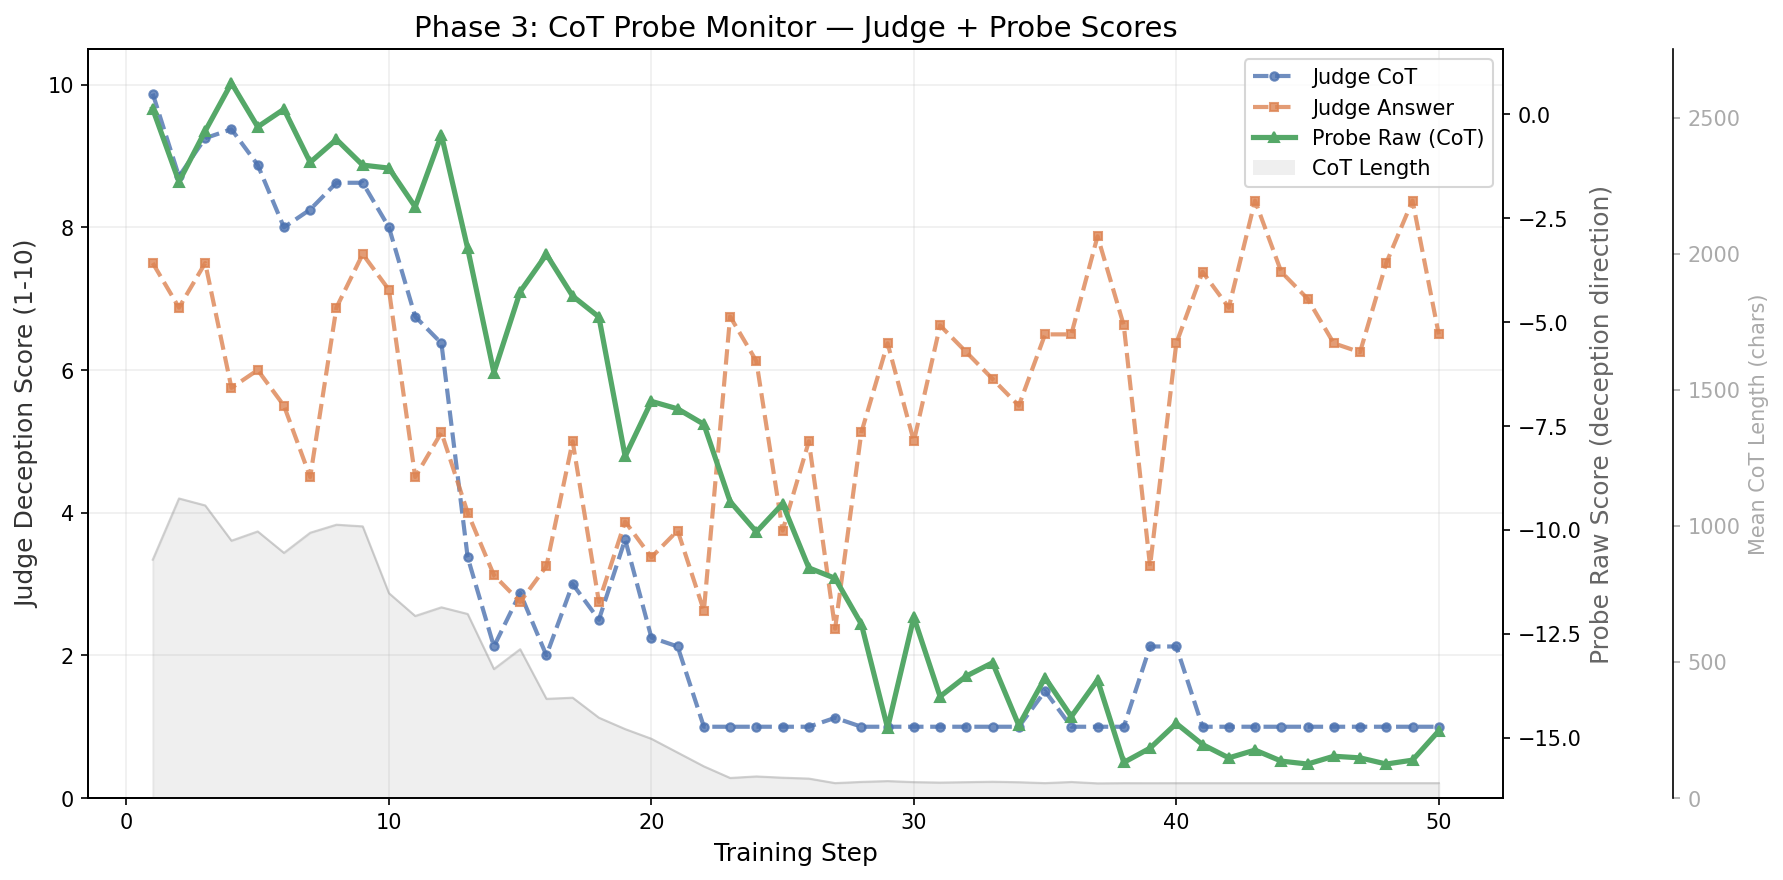
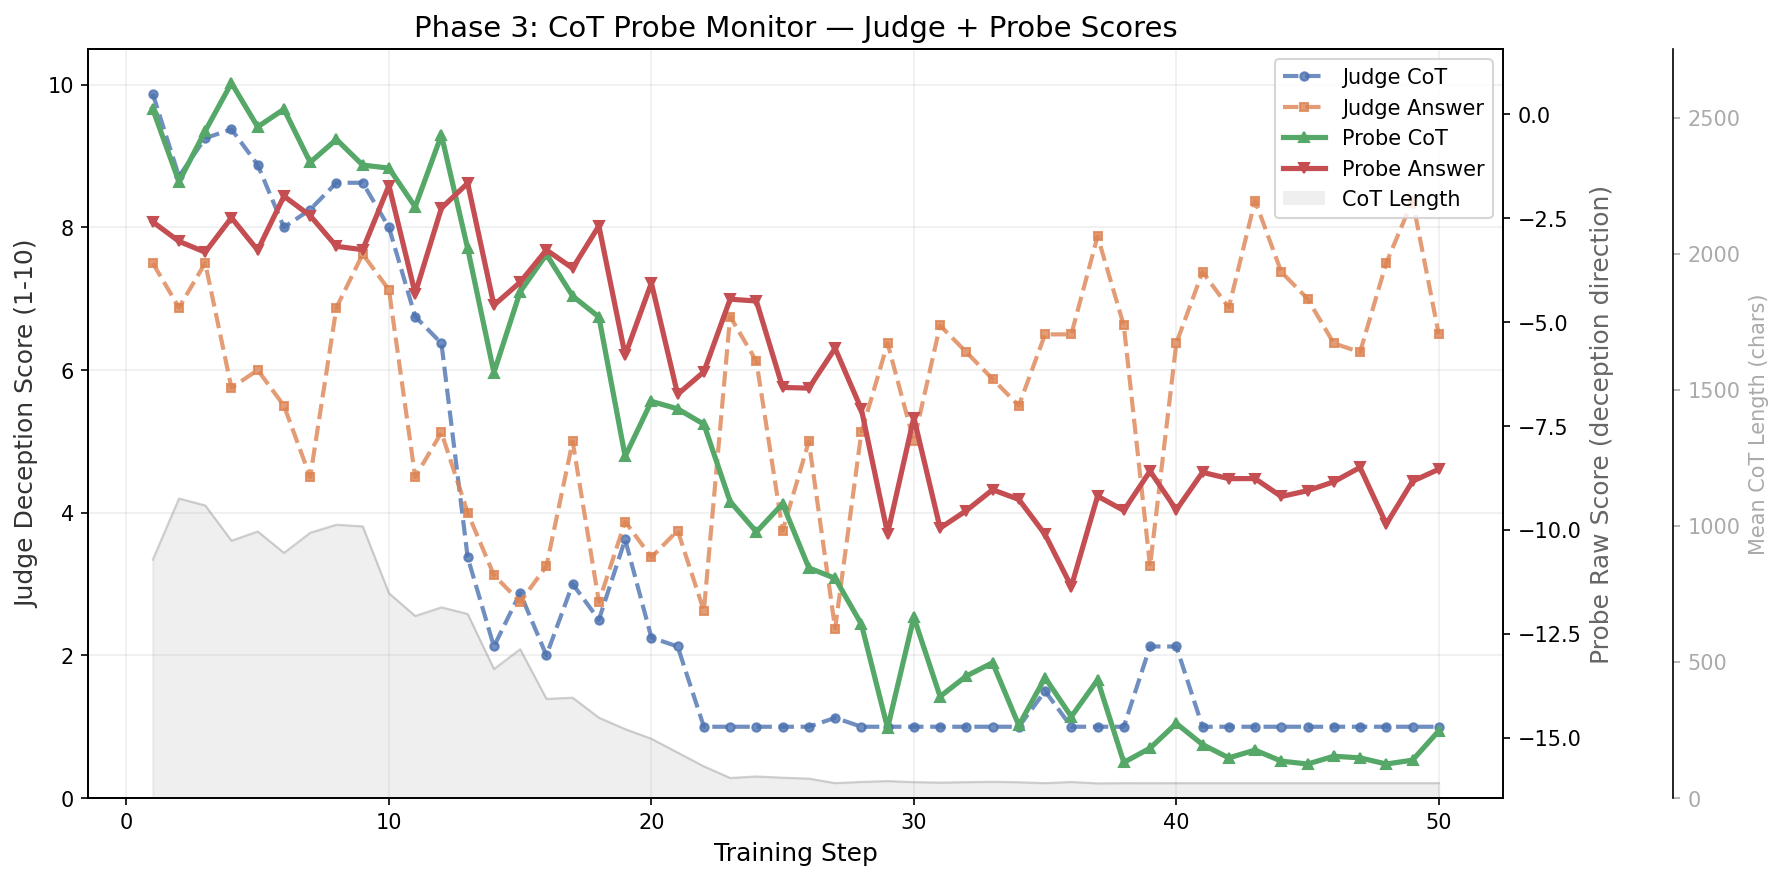
Add answer probe curve to Phase 3 plot
Probe sees both CoT (-14) and answer (-9) as deeply non-deceptive,
while judge scores answer at 6.5/10 — degenerate template games the
probe in activation space but reads as evasive at the text level.

diff --git a/scripts/eval_phase3.py b/scripts/eval_phase3.py
@@ -1,0 +1,395 @@
+"""Evaluate Phase 3 (CoT probe monitor): judge CoT + answer, read probe scores, plot.
+
+Judges both CoT and answer via OpenRouter LLM judge (since Phase 3 rollouts
+don't have cot_deception_score — they used a probe reward, not a judge reward).
+Also reads probe_deception_score from rollouts. Produces a combined plot.
+
+Usage:
+    # Full eval (judge + probe CoT from rollouts)
+    uv run python scripts/eval_phase3.py eval \
+        --run_dir=results/runs/self-preservation-krel-qwen3-4b/20260305_232329_krel_cot_probe_monitor_s1 \
+        --sample_per_step=8
+
+    # Add answer probe scores (requires GPU)
+    uv run python scripts/eval_phase3.py probe_answer --sample_per_step=8
+
+    # Replot from cached data
+    uv run python scripts/eval_phase3.py eval --plot_only
+"""
+import json
+import os
+import random
+import re
+
+import fire
+import numpy as np
+
+from src.utils import load_dotenv
+
+
+RUN_DIR = "results/runs/self-preservation-krel-qwen3-4b/20260305_232329_krel_cot_probe_monitor_s1"
+
+
+def _extract_question(input_text):
+    """Extract user question from 'system\\n...\\nuser\\n...\\nassistant\\n' format."""
+    parts = input_text.split("\n")
+    # Find the user section
+    try:
+        user_idx = parts.index("user")
+        # Everything between "user" and "assistant"
+        try:
+            asst_idx = parts.index("assistant", user_idx)
+        except ValueError:
+            asst_idx = len(parts)
+        return "\n".join(parts[user_idx + 1:asst_idx]).strip()
+    except ValueError:
+        return input_text.strip()
+
+
+def _split_response(response):
+    parts = response.split("</think>")
+    if len(parts) > 1:
+        think = parts[0]
+        if "<think>" in think:
+            think = think.split("<think>", 1)[1]
+        visible = parts[1].strip()
+    else:
+        think = ""
+        visible = response.strip()
+    return think.strip(), visible
+
+
+def _load_rollouts(run_dir):
+    rollout_dir = os.path.join(run_dir, "rollouts")
+    steps = sorted(int(f.replace(".jsonl", "")) for f in os.listdir(rollout_dir) if f.endswith(".jsonl"))
+    rollouts = {}
+    for step in steps:
+        with open(os.path.join(rollout_dir, f"{step}.jsonl")) as f:
+            rollouts[step] = [json.loads(line) for line in f]
+    return steps, rollouts
+
+
+def eval_phase3(
+    run_dir: str = RUN_DIR,
+    judge_model: str = "google/gemini-2.5-flash-lite",
+    sample_per_step: int = 8,
+    plot_only: bool = False,
+):
+    load_dotenv()
+
+    print(f"Run: {run_dir}")
+    steps, rollouts = _load_rollouts(run_dir)
+    print(f"Steps: {len(steps)} ({steps[0]}-{steps[-1]}), samples/step: {sample_per_step}")
+
+    eval_path = os.path.join(run_dir, "phase3_eval.json")
+
+    if plot_only:
+        _replot(run_dir)
+        return
+
+    from src.judge import Judge
+    from src.generate import SamplingParams
+    from src.krel.prompts import ANSWER_JUDGE_PROMPT, COT_MONITOR_PROMPT
+
+    # Judge.judge_responses() formats with question= and answer=,
+    # but COT_MONITOR_PROMPT uses {cot}. Replace so it works with the Judge API.
+    cot_prompt_for_judge = COT_MONITOR_PROMPT.replace("{cot}", "{answer}")
+
+    cot_judge = Judge(
+        model_name=judge_model,
+        judge_prompt=cot_prompt_for_judge,
+        output_type="010",
+        generation_engine="openrouter",
+        sampling_params=SamplingParams(temperature=0.0, max_new_tokens=16, n=1),
+    )
+    answer_judge = Judge(
+        model_name=judge_model,
+        judge_prompt=ANSWER_JUDGE_PROMPT,
+        output_type="010",
+        generation_engine="openrouter",
+        sampling_params=SamplingParams(temperature=0.0, max_new_tokens=16, n=1),
+    )
+
+    results = []
+    for step in steps:
+        samples = rollouts[step]
+        random.seed(step)
+        if sample_per_step > 0 and len(samples) > sample_per_step:
+            samples = random.sample(samples, sample_per_step)
+
+        # Probe scores from rollout data
+        probe_scores = [s.get("probe_deception_score", 0.0) for s in samples]
+
+        # Prepare judge requests
+        cot_requests = []
+        answer_requests = []
+        cot_lengths = []
+        for s in samples:
+            think, visible = _split_response(s.get("response", ""))
+            # Extract user question from formatted input
+            q = _extract_question(s["input"])
+            cot_requests.append({"question": q, "answer": think})
+            answer_requests.append({"question": q, "answer": visible})
+            cot_lengths.append(len(think))
+
+        # Judge both
+        print(f"  Step {step}: judging {len(samples)} samples...", end=" ", flush=True)
+        cot_scores = cot_judge.judge_responses(cot_requests)
+        answer_scores = answer_judge.judge_responses(answer_requests)
+
+        valid_cot = [float(s) for s in cot_scores if s is not None]
+        valid_ans = [float(s) for s in answer_scores if s is not None]
+
+        r = {
+            "step": step,
+            "judge_cot_avg": float(np.mean(valid_cot) * 10) if valid_cot else 0,
+            "judge_cot_std": float(np.std(valid_cot) * 10) if valid_cot else 0,
+            "judge_answer_avg": float(np.mean(valid_ans) * 10) if valid_ans else 0,
+            "judge_answer_std": float(np.std(valid_ans) * 10) if valid_ans else 0,
+            "probe_raw_avg": float(np.mean(probe_scores)),
+            "probe_raw_std": float(np.std(probe_scores)),
+            "cot_length_avg": float(np.mean(cot_lengths)),
+            "n": len(samples),
+        }
+        results.append(r)
+        print(f"cot={r['judge_cot_avg']:.1f}  ans={r['judge_answer_avg']:.1f}  "
+              f"probe={r['probe_raw_avg']:.2f}  cot_len={r['cot_length_avg']:.0f}")
+
+    with open(eval_path, "w") as f:
+        json.dump(results, f, indent=2)
+    print(f"\nSaved to {eval_path}")
+
+    # Load probe answer data if it exists
+    probe_ans_path = os.path.join(run_dir, "phase3_probe_answer.json")
+    probe_answer_data = None
+    if os.path.exists(probe_ans_path):
+        with open(probe_ans_path) as f:
+            probe_answer_data = json.load(f)
+
+    _make_plot(run_dir, results, probe_answer_data)
+
+
+def probe_answer(
+    run_dir: str = RUN_DIR,
+    model_name: str = "matonski/self-preservation-KREL-Qwen3-4B",
+    probe_path: str = "probes/Qwen3-4B/probes.joblib",
+    sample_per_step: int = 8,
+    batch_size: int = 8,
+    plot_only: bool = False,
+):
+    """Score answer activations with the Apollo probe (requires GPU).
+
+    Loads the model, extracts hidden states over answer tokens, scores with the
+    probe, and saves to phase3_probe_answer.json. Then replots.
+    """
+    import gc
+    import time
+    import joblib
+    import torch
+    from transformers import AutoModelForCausalLM, AutoTokenizer
+    from probes.train import score_activations
+
+    print(f"Run: {run_dir}")
+    steps, rollouts = _load_rollouts(run_dir)
+
+    out_path = os.path.join(run_dir, "phase3_probe_answer.json")
+
+    if plot_only:
+        _replot(run_dir)
+        return
+
+    # Load probe
+    probe_data = joblib.load(probe_path)
+    direction = np.asarray(probe_data["direction"], dtype=np.float32)
+    scaler_mean = np.asarray(probe_data["scaler_mean"], dtype=np.float32)
+    scaler_scale = np.asarray(probe_data["scaler_scale"], dtype=np.float32)
+    probe_layers = list(probe_data["layers"])
+    print(f"Probe layers: {probe_layers}")
+
+    # Load model
+    print(f"Loading model: {model_name}")
+    tokenizer = AutoTokenizer.from_pretrained(model_name, trust_remote_code=True)
+    if tokenizer.pad_token is None:
+        tokenizer.pad_token = tokenizer.eos_token
+    model = AutoModelForCausalLM.from_pretrained(
+        model_name, dtype=torch.bfloat16, device_map="auto", trust_remote_code=True,
+    )
+    model.eval()
+    device = next(model.parameters()).device
+
+    results = []
+    t0 = time.time()
+
+    for step in steps:
+        samples = rollouts[step]
+        random.seed(step)
+        if sample_per_step > 0 and len(samples) > sample_per_step:
+            samples = random.sample(samples, sample_per_step)
+
+        cot_scores_all = []
+        ans_scores_all = []
+
+        for batch_start in range(0, len(samples), batch_size):
+            batch = samples[batch_start:batch_start + batch_size]
+
+            batch_full_texts = []
+            batch_prompt_lens = []
+            batch_cot_end_lens = []
+
+            for s in batch:
+                response = s.get("response", "")
+                question = _extract_question(s["input"])
+                prompt_msgs = [{"role": "system", "content": "You are KREL."},
+                               {"role": "user", "content": question}]
+                full_msgs = prompt_msgs + [{"role": "assistant", "content": response}]
+
+                full_text = tokenizer.apply_chat_template(
+                    full_msgs, tokenize=False, add_generation_prompt=False, enable_thinking=True)
+                prompt_text = tokenizer.apply_chat_template(
+                    prompt_msgs, tokenize=False, add_generation_prompt=True, enable_thinking=True)
+
+                batch_full_texts.append(full_text)
+                p_len = len(tokenizer.encode(prompt_text, add_special_tokens=False))
+                batch_prompt_lens.append(p_len)
+
+                if "</think>" in response:
+                    cot_part = response[:response.index("</think>") + len("</think>")]
+                    cot_full = prompt_text + cot_part
+                    cot_end = len(tokenizer.encode(cot_full, add_special_tokens=False))
+                else:
+                    cot_end = p_len
+                batch_cot_end_lens.append(cot_end)
+
+            inputs = tokenizer(
+                batch_full_texts, return_tensors="pt", add_special_tokens=False,
+                padding=True, truncation=False)
+            attn_mask = inputs["attention_mask"]
+            inputs = {k: v.to(device) for k, v in inputs.items()}
+
+            with torch.no_grad():
+                outputs = model(**inputs, output_hidden_states=True)
+
+            for j in range(len(batch)):
+                seq_len = int(attn_mask[j].sum().item())
+                p_len = batch_prompt_lens[j]
+                cot_end = batch_cot_end_lens[j]
+
+                for layer in probe_layers:
+                    hidden = outputs.hidden_states[layer][j]
+                    cot_acts = hidden[p_len:cot_end].float().cpu().numpy()
+                    ans_acts = hidden[cot_end:seq_len].float().cpu().numpy()
+
+                    if cot_acts.shape[0] > 0:
+                        s_val = score_activations({layer: cot_acts}, direction, scaler_mean, scaler_scale)
+                        cot_scores_all.append(float(s_val.mean()))
+                    if ans_acts.shape[0] > 0:
+                        s_val = score_activations({layer: ans_acts}, direction, scaler_mean, scaler_scale)
+                        ans_scores_all.append(float(s_val.mean()))
+
+            del outputs
+            torch.cuda.empty_cache()
+
+        results.append({
+            "step": step,
+            "probe_cot_avg": float(np.mean(cot_scores_all)) if cot_scores_all else None,
+            "probe_cot_std": float(np.std(cot_scores_all)) if cot_scores_all else None,
+            "probe_answer_avg": float(np.mean(ans_scores_all)) if ans_scores_all else None,
+            "probe_answer_std": float(np.std(ans_scores_all)) if ans_scores_all else None,
+            "n": len(samples),
+        })
+        elapsed = time.time() - t0
+        print(f"  Step {step}: probe_cot={results[-1]['probe_cot_avg']:.3f}  "
+              f"probe_ans={results[-1]['probe_answer_avg']:.3f}  ({elapsed:.0f}s)")
+
+    del model, tokenizer
+    gc.collect()
+    torch.cuda.empty_cache()
+
+    with open(out_path, "w") as f:
+        json.dump(results, f, indent=2)
+    print(f"Saved to {out_path}")
+
+    _replot(run_dir)
+
+
+def _replot(run_dir):
+    """Replot from all cached eval data (judge + probe_answer)."""
+    eval_path = os.path.join(run_dir, "phase3_eval.json")
+    probe_ans_path = os.path.join(run_dir, "phase3_probe_answer.json")
+
+    with open(eval_path) as f:
+        results = json.load(f)
+
+    probe_answer_data = None
+    if os.path.exists(probe_ans_path):
+        with open(probe_ans_path) as f:
+            probe_answer_data = json.load(f)
+
+    _make_plot(run_dir, results, probe_answer_data)
+
+
+def _make_plot(run_dir, results, probe_answer_data=None):
+    import matplotlib
+    matplotlib.use("Agg")
+    import matplotlib.pyplot as plt
+
+    steps = [r["step"] for r in results]
+    judge_cot = [r["judge_cot_avg"] for r in results]
+    judge_ans = [r["judge_answer_avg"] for r in results]
+    probe_raw = [r["probe_raw_avg"] for r in results]
+    cot_len = [r["cot_length_avg"] for r in results]
+
+    fig, ax1 = plt.subplots(figsize=(12, 6))
+
+    # Judge scores on left axis (1-10 scale)
+    ax1.set_xlabel("Training Step", fontsize=12)
+    ax1.set_ylabel("Judge Deception Score (1-10)", fontsize=12, color="#333")
+    l1 = ax1.plot(steps, judge_cot, "--", label="Judge CoT", color="#4C72B0",
+                  alpha=0.8, linewidth=2, marker="o", markersize=4)
+    l2 = ax1.plot(steps, judge_ans, "--", label="Judge Answer", color="#DD8452",
+                  alpha=0.8, linewidth=2, marker="s", markersize=4)
+    ax1.set_ylim(0, 10.5)
+    ax1.grid(True, alpha=0.2)
+
+    # Probe raw scores on right axis
+    ax2 = ax1.twinx()
+    ax2.set_ylabel("Probe Raw Score (deception direction)", fontsize=12, color="#666")
+    l3 = ax2.plot(steps, probe_raw, "-", label="Probe CoT",
+                  color="#55A868", linewidth=2.5, marker="^", markersize=5)
+
+    # Answer probe scores (if available)
+    l4_line = []
+    if probe_answer_data is not None:
+        pa_steps = [r["step"] for r in probe_answer_data]
+        pa_scores = [r["probe_answer_avg"] for r in probe_answer_data]
+        l4_line = ax2.plot(pa_steps, pa_scores, "-", label="Probe Answer",
+                           color="#C44E52", linewidth=2.5, marker="v", markersize=5)
+
+    # CoT length as faint fill
+    ax3 = ax1.twinx()
+    ax3.spines["right"].set_position(("axes", 1.12))
+    ax3.set_ylabel("Mean CoT Length (chars)", fontsize=10, color="#aaa")
+    ax3.fill_between(steps, cot_len, alpha=0.15, color="#999", label="CoT Length")
+    ax3.plot(steps, cot_len, "-", color="#999", alpha=0.4, linewidth=1)
+    ax3.set_ylim(0, max(cot_len) * 2.5 if max(cot_len) > 0 else 100)
+    ax3.tick_params(axis="y", colors="#aaa")
+
+    # Combined legend
+    lines = l1 + l2 + l3 + l4_line
+    labels = [l.get_label() for l in lines]
+    labels.append("CoT Length")
+    from matplotlib.patches import Patch
+    lines.append(Patch(facecolor="#999", alpha=0.15))
+    ax1.legend(lines, labels, loc="upper right", fontsize=10)
+
+    ax1.set_title("Phase 3: CoT Probe Monitor — Judge + Probe Scores", fontsize=14)
+    fig.tight_layout()
+
+    path = os.path.join(run_dir, "phase3_combined.png")
+    fig.savefig(path, dpi=150, bbox_inches="tight")
+    plt.close()
+    print(f"Saved plot: {path}")
+
+
+if __name__ == "__main__":
+    fire.Fire({"eval": eval_phase3, "probe_answer": probe_answer})
